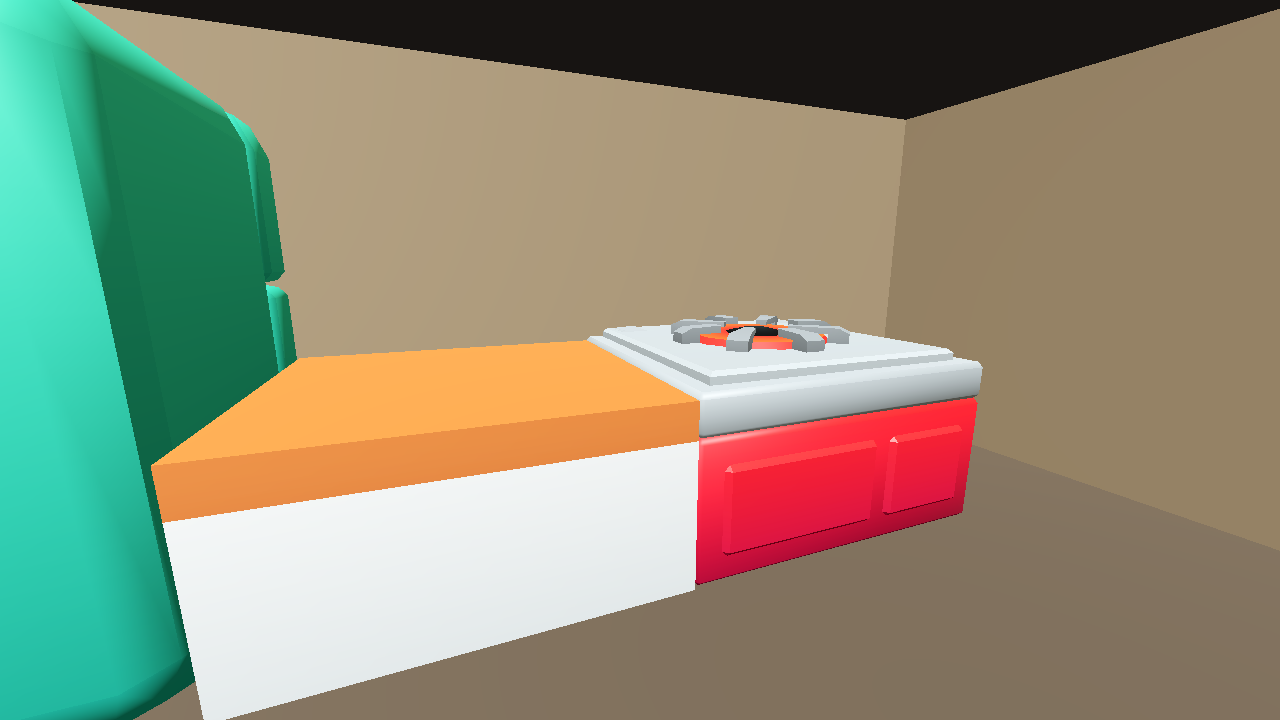
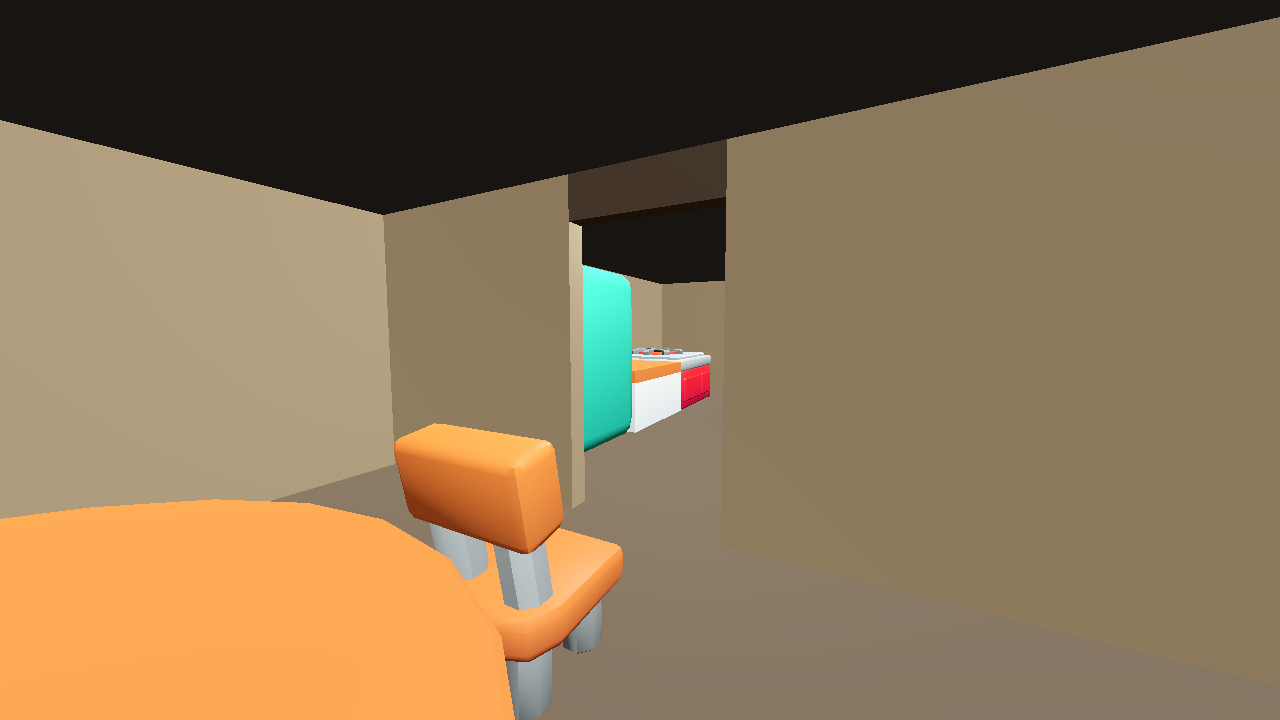
fix: preserve FittingPlacer stage one review fixes

diff --git a/experiments/layout_solvers/fittingplacer/runner/Program.cs b/experiments/layout_solvers/fittingplacer/runner/Program.cs
@@ -12,8 +12,16 @@ internal static class Program
     private sealed record Brief(string Location, int Seed, ZoneBrief[] Zones, string[][] Adjacency);
     private sealed record Placement(string id, string zoneId, string assetPath, float[] translation, float[] rotation);
     private sealed record Zone(string id, string type, float width, float depth, float originX, float originZ);
+    private sealed record LegacyPlacement(string Id, string AssetId, string AssetPath, float[] Translation, float[] Rotation,
+        float SolverX, float SolverY, float SolverOrientationRadians);
 
     public static int Main(string[] args)
+    {
+        if (args.Length > 0 && args[0] == "--stage1") return RunStage1(args[1..]);
+        return RunLegacy(args);
+    }
+
+    private static int RunStage1(string[] args)
     {
         if (args.Length != 3) { Console.Error.WriteLine("Usage: runner <brief.json> <layout.json> <semantics.xml>"); return 2; }
         var brief = JsonSerializer.Deserialize<Brief>(File.ReadAllText(args[0]), new JsonSerializerOptions { PropertyNameCaseInsensitive = true })!;
@@ -72,6 +80,48 @@ internal static class Program
         var output = new { solver = "FittingPlacer", upstreamCommit = UpstreamCommit, seed = brief.Seed,
             doorWidth = 1.4f, totalWidth, roomHeight = 3f, zones, placements };
         File.WriteAllText(args[1], JsonSerializer.Serialize(output, new JsonSerializerOptions { WriteIndented = true }) + Environment.NewLine);
+        return 0;
+    }
+
+    // Preserve the LAY-01/LAY-01B CLI and output contract used by generate.ps1/capture.ps1.
+    private static int RunLegacy(string[] args)
+    {
+        if (args.Length is < 2 or > 3) { Console.Error.WriteLine("Usage: Runner <tavern.xml> <layout.json> [seed]"); return 2; }
+        var seed = args.Length == 3 ? int.Parse(args[2]) : 4242;
+        var models = new List<string> {
+            "bar_section_a", "bar_section_b", "customer_stool", "customer_stool", "customer_stool", "customer_stool",
+            "dining_table", "dining_chair", "dining_chair", "dining_chair", "dining_chair",
+            "kitchen_counter", "kitchen_stove", "kitchen_fridge"
+        };
+        var room = new Room(16f, 12f, 3f, new List<float[]> { new[] { 0f, -6f, 1.2f, (float)(Math.PI / 2) } }, new List<float[]>());
+        var generated = new Furnisher(args[0]).GeneratePlacements(room, models, seed);
+        Console.WriteLine($"requested={models.Count} placed={generated.Length} seed={seed}");
+        if (generated.Length != models.Count) { Console.Error.WriteLine("FittingPlacer returned an incomplete layout; JSON was not written."); return 1; }
+        var assetByModel = new Dictionary<string, (string Id, string Path)> {
+            ["bar_section_a"] = ("bar_section_a", "res://assets/kitchencounter_straight_A.gltf"),
+            ["bar_section_b"] = ("bar_section_b", "res://assets/kitchencounter_straight_A.gltf"),
+            ["customer_stool"] = ("customer_stool", "res://assets/chair_stool.gltf"),
+            ["dining_table"] = ("dining_table", "res://assets/table_round_A.gltf"),
+            ["dining_chair"] = ("dining_chair", "res://assets/chair_A.gltf"),
+            ["kitchen_counter"] = ("kitchen_counter", "res://assets/kitchencounter_straight_A.gltf"),
+            ["kitchen_stove"] = ("kitchen_stove", "res://assets/stove_single.gltf"),
+            ["kitchen_fridge"] = ("kitchen_fridge", "res://assets/fridge_A.gltf")
+        };
+        var indices = new Dictionary<string, int>();
+        var placements = generated.Select(p => {
+            var model = p.RepresentationObject.FittingModelId;
+            var asset = assetByModel[model];
+            indices.TryGetValue(asset.Id, out var previous);
+            var index = previous + 1;
+            indices[asset.Id] = index;
+            return new LegacyPlacement($"{asset.Id}_{index:00}", asset.Id, asset.Path,
+                new[] { p.PositionX, 0f, p.PositionY }, new[] { 0f, -p.Orientation, 0f }, p.PositionX, p.PositionY, p.Orientation);
+        }).ToArray();
+        var output = new { solver = "FittingPlacer", upstreamCommit = UpstreamCommit, seed, roomWidth = 16f, roomDepth = 12f,
+            roomHeight = 3f, southDoor = new[] { 0f, -6f, 1.2f, 90f }, placements };
+        File.WriteAllText(args[1], JsonSerializer.Serialize(output, new JsonSerializerOptions {
+            WriteIndented = true, PropertyNamingPolicy = System.Text.Json.JsonNamingPolicy.CamelCase
+        }) + Environment.NewLine);
         return 0;
     }
 }

diff --git a/experiments/layout_solvers/fittingplacer/STAGE1.md b/experiments/layout_solvers/fittingplacer/STAGE1.md
@@ -20,9 +20,11 @@ The script generates `stage1_layout.json` and captures the isolated preview. Bui
 
 ## Evidence
 
+- **PASS** — Existing `generate.ps1 -Seed 4242` retains its original XML/JSON/seed CLI and generated 14/14 placements.
 - **PASS** — FittingPlacer generated `hall requested=5 placed=5` and `kitchen requested=3 placed=3`, seed 4242.
+- **PASS** — both generator scripts verify the local upstream `HEAD` against `1cdb703197b41d418e7ce686e74c7aad835ddb37`; Stage 1 only fetches/checks out that commit when needed.
 - **PASS** — the isolated Godot 4.7.1 scene rendered the generated pieces from the KayKit glTF assets and the partition has an open 1.4 m doorway.
-- **PASS (visual checkpoint)** — top-down shows the two rooms, shared wall opening, dining group and kitchen work line. Eye-level view is from just inside the doorway facing the generated kitchen work fronts.
+- **PASS (visual checkpoint)** — top-down shows the two rooms, shared wall opening, dining group and kitchen work line. The eye-level doorway view is taken from the hall, shows the dining chair beside the viewer, the open partition, and kitchen furniture beyond it.
 - **NOT_TESTED** — runtime walkability/collision, route validation, variation briefs, and complete-tavern requirements. These are deferred from Stage 1 by the scope correction.
 - **Known limitation** — the public hall sizing formula is currently specialized to the Stage 1 one-table brief; requests with other table counts are explicitly rejected. Kitchen sizing is a measured fixed allowance for this appliance set.
 
